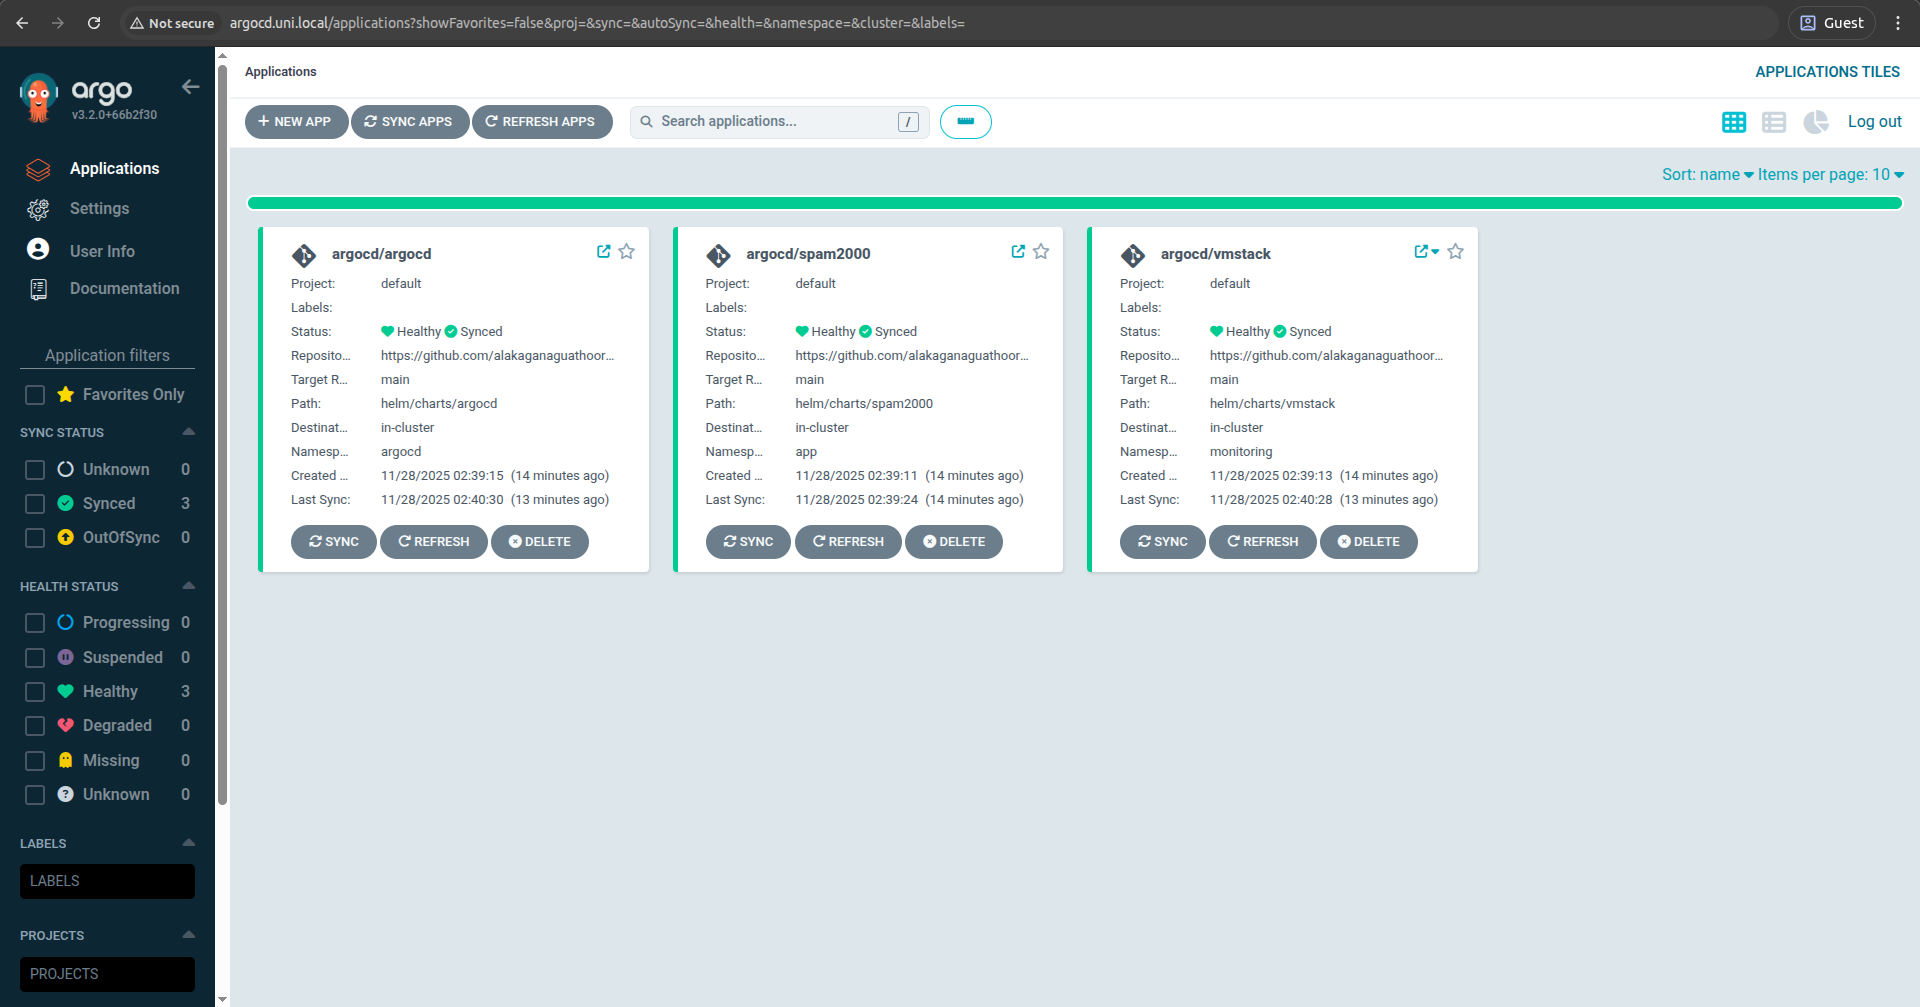
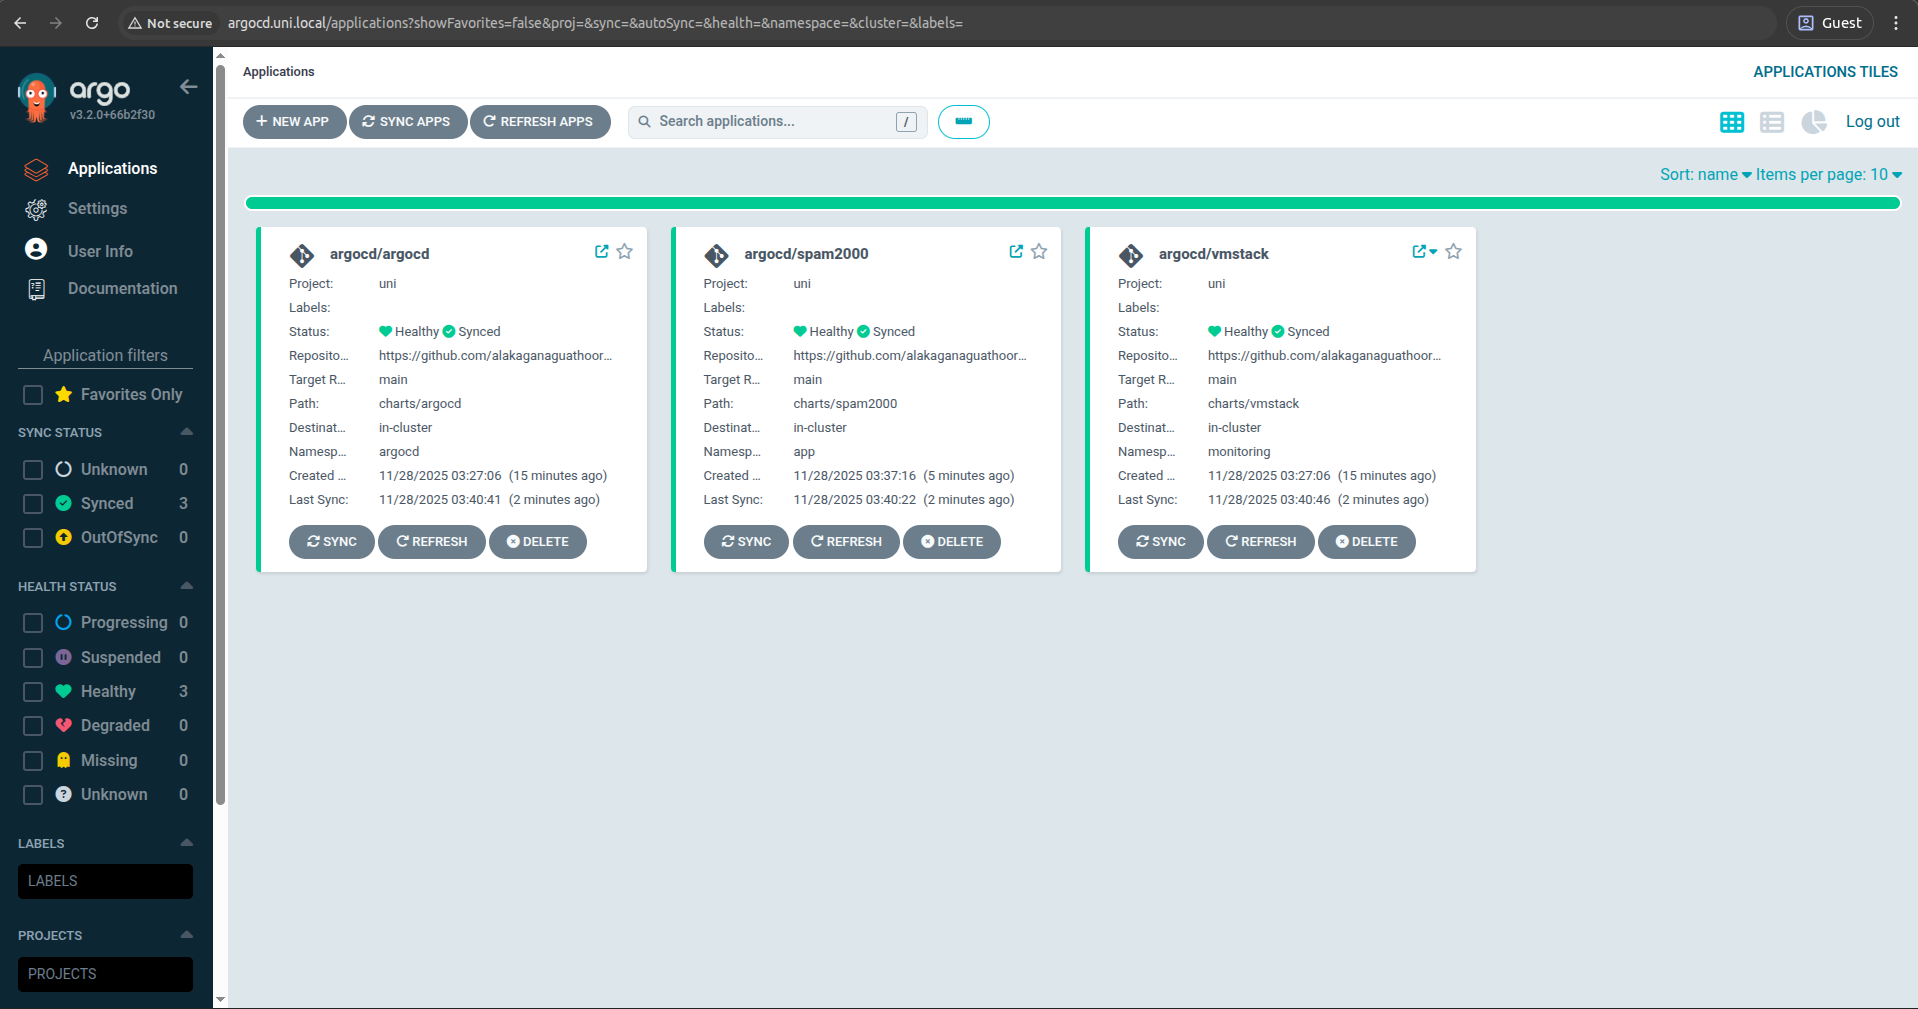
Finalize README.md

diff --git a/README.md b/README.md
@@ -16,7 +16,7 @@ The `main.sh` will install/clean up few required packages (based on OS: Linux an
 
 :warning: **Warning**: `~/.kube/config` file won't be deleted on cluster deletion to not mess up your existing config (it's commented at [./scripts/resolve_tools.sh:166](./scripts/resolve_tools.sh#L166))
 
-:warning: **Warning**: Installed tools won't be deleted on cluster deletion in order to not mess up your env (it's commented in [main.sh:95](./main.sh#L95))
+:warning: **Warning**: Installed tools won't be deleted on cluster deletion in order to not mess up your env (it's commented in [main.sh:93](./main.sh#L93))
 
 ## Prerequisites
 
@@ -92,9 +92,9 @@ Apps to be installed and synced in ArgoCD:
     --addons="ingress"
     ```
 
-3. `max_scrape_size` was increased in order to overcome too 'noisy' spam2000 app [./helm/charts/vmstack/values.yaml:35](./helm/charts/vmstack/values.yaml#L35)
+3. `max_scrape_size` was increased in order to overcome too 'noisy' spam2000 app [./charts/vmstack/values.yaml:35](./charts/vmstack/values.yaml#L35)
 
-4. Few lables were dropped from `random_gauge_1` metric to make it less cardinal in job `spam` [./helm/charts/vmstack/values.yaml:37-39](./helm/charts/vmstack/values.yaml#L37-39)
+4. Few lables were dropped from `random_gauge_1` metric to make it less cardinal in job `spam` [./charts/vmstack/values.yaml:36-39](./charts/vmstack/values.yaml#L36-39)
 
 5. :-1: Didn't manage dashboards imported from Grafana Lab to work - they show no data:
 
@@ -109,7 +109,7 @@ Apps to be installed and synced in ArgoCD:
         </tr>
     </table>
 
-6. :-1: A custom dashboard for Spam2000 was added as plain json in values file [./helm/charts/vmstack/values.yaml:183-534](./helm/charts/vmstack/values.yaml#L183-534). I didn't manage to import it from a file ([helm/charts/vmstack/dashboards/spam2000.json](helm/charts/vmstack/dashboards/spam2000.json)).
+6. :-1: A custom dashboard for Spam2000 was added as plain json in values file [./charts/vmstack/values.yaml:183-534](./charts/vmstack/values.yaml#L183-534). I didn't manage to import it from a file ([./charts/vmstack/dashboards/spam2000.json](./charts/vmstack/dashboards/spam2000.json)).
 
     >It is possible to add a dashboard via ConfigMap as well as I know, but I wanted to keep it _GitOps-ish_.
 
